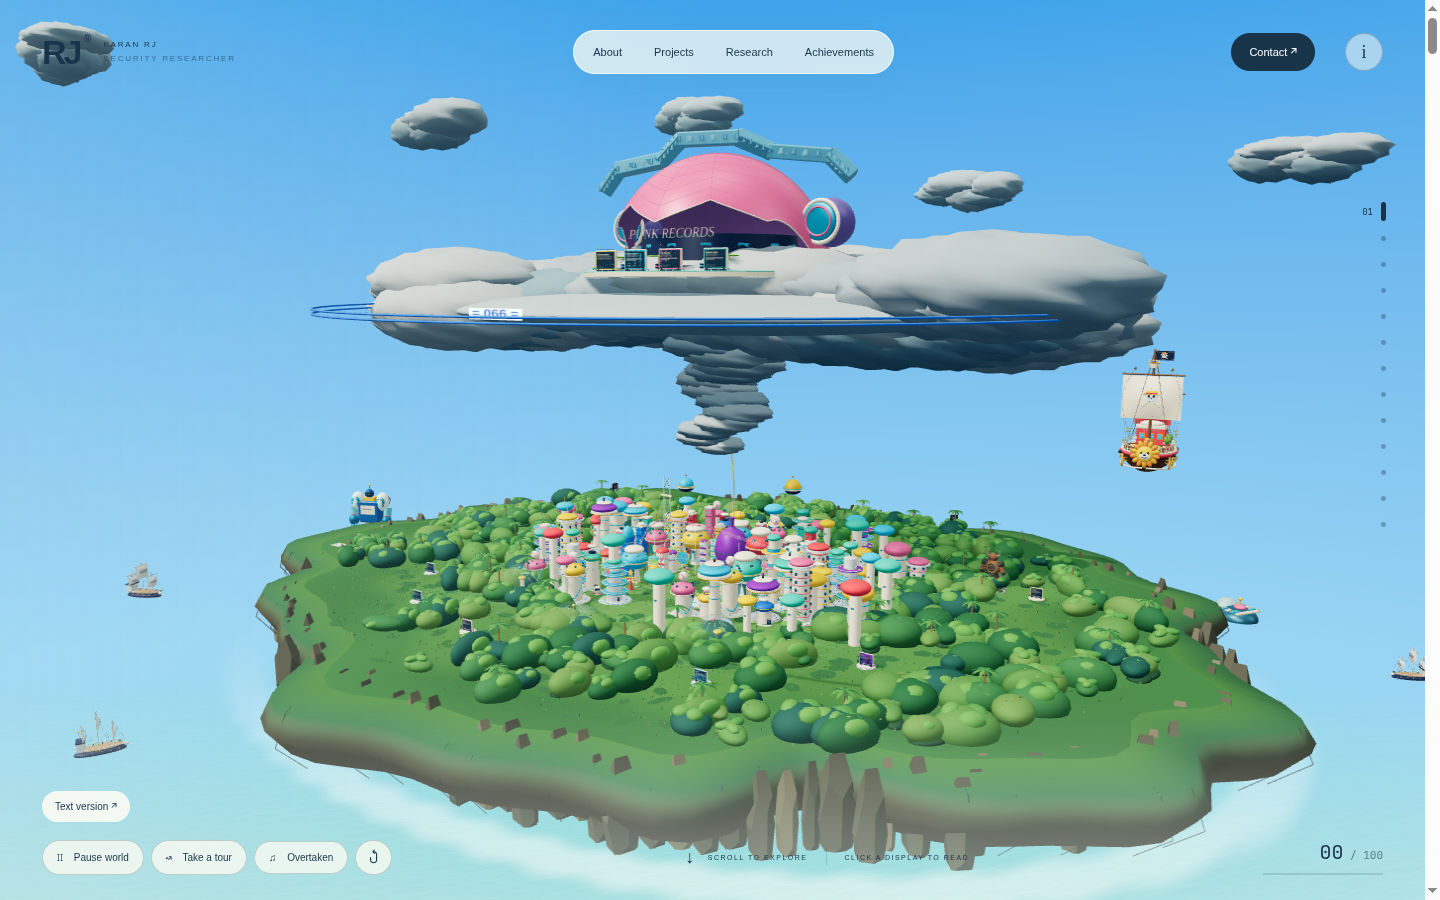
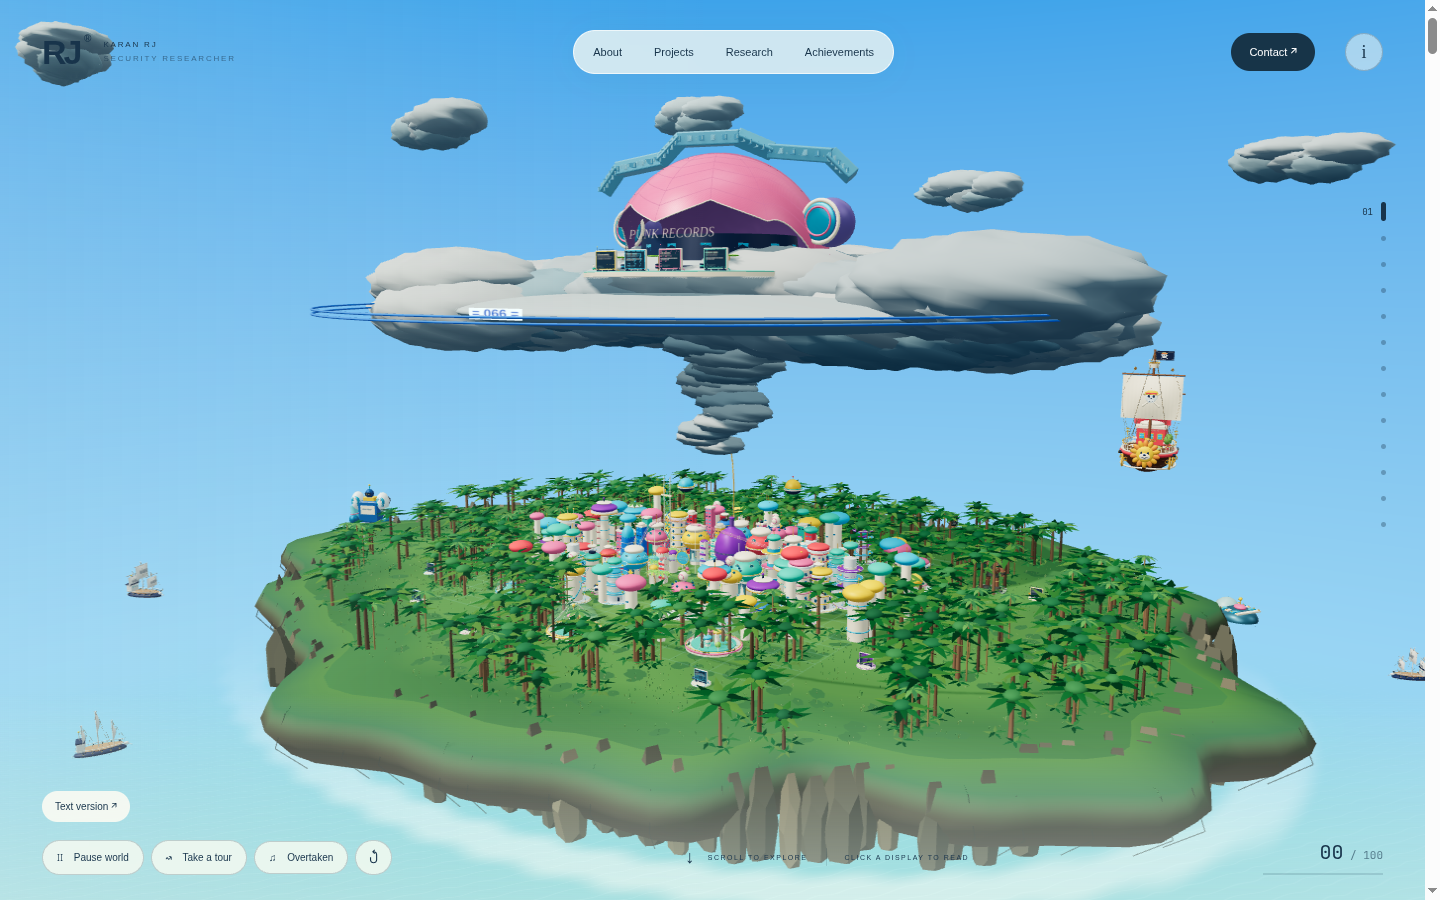
Replace coastal domes with dense Egghead forest

Changed region(s): [[0.1875, 0.4978, 0.875, 0.9644], [0.2812, 0.8711, 0.3438, 0.9022]]

diff --git a/src/megaworld.js b/src/megaworld.js
@@ -15,6 +15,11 @@ function palmLeaf(){
  }
  const g=new T.BufferGeometry();g.setAttribute('position',new T.Float32BufferAttribute(vertices,3));g.setIndex(indices);g.computeVertexNormals();return g;
 }
+function forestLeaf(){
+ const g=new T.BufferGeometry();
+ g.setAttribute('position',new T.Float32BufferAttribute([0,0,0,-.38,.12,.36,0,.22,.58,.38,.12,.36,0,-.17,1],3));
+ g.setIndex([0,1,2,0,2,3,1,4,2,2,4,3]);g.computeVertexNormals();return g;
+}
 function grassClump(){
  const v=[],uv=[],ix=[];
  for(let blade=0;blade<5;blade++){
@@ -37,7 +42,7 @@ function groundPatch(){
 }
 function instances(parent,name,geometry,placements,material=painted){
  const mesh=new T.InstancedMesh(geometry,material,placements.length),dummy=new T.Object3D();mesh.name=name;
- placements.forEach(([x,y,z,sx,sy,sz,color,angle=0],i)=>{dummy.position.set(x,y,z);dummy.rotation.set(0,angle,0);dummy.scale.set(sx,sy,sz);dummy.updateMatrix();mesh.setMatrixAt(i,dummy.matrix);mesh.setColorAt(i,new T.Color(color));});
+ placements.forEach(([x,y,z,sx,sy,sz,color,angle=0],i)=>{dummy.position.set(x,y,z);dummy.rotation.set(...(Array.isArray(angle)?angle:[0,angle,0]));dummy.scale.set(sx,sy,sz);dummy.updateMatrix();mesh.setMatrixAt(i,dummy.matrix);mesh.setColorAt(i,new T.Color(color));});
  mesh.instanceMatrix.needsUpdate=true;mesh.instanceColor.needsUpdate=true;mesh.castShadow=false;mesh.receiveShadow=true;mesh.frustumCulled=false;parent.add(mesh);
  return mesh;
 }
@@ -141,26 +146,36 @@ function bubbleHabitat(parent,x,z,colour,n){
 }
 export function createMegaFabriophase(world,{low=false}={}){
  const district=new T.Group();district.name='FABRIOPHASE_FOREST_AND_CITY';world.add(district);
- const foliage=[],lowerLeaves=[],upperTufts=[],leaflets=[],trunks=[],fronds=[],rocks=[],roofs=[],columns=[],windows=[],antennae=[],grass=[],moss=[];
+ const canopyLeaves=[],canopyCores=[],forestTrunks=[],forestBranches=[],understoryLeaves=[],trunks=[],fronds=[],rocks=[],roofs=[],columns=[],windows=[],antennae=[],grass=[],moss=[];
  let palms=0,pods=0;
- // The dark, irregular vegetation belt frames a smaller city. Leave the port open.
- for(let i=0;i<440;i++){
-  const a=i*2.3999632,r=67+random()*81,x=Math.cos(a)*r,z=Math.sin(a)*r*.802;
+ // Tall trunks, separate leaf fans and a low understory replace the old dome-like canopy.
+ for(let i=0;i<(low?470:660);i++){
+  const a=i*2.3999632,r=64+random()*88,x=Math.cos(a)*r,z=Math.sin(a)*r*.802;
   if(x < -142 && z>10 && z<82||!sightlineClear(x,z))continue;
-  const size=2.8+random()*5.5,depth=3+random()*4;
-  foliage.push([x,2.8+random()*2,z,size,size*.65,depth,[0x2c663c,0x3c7642,0x265c4f,0x568943,0x648d47][i%5],a]);
-  const canopyY=foliage[foliage.length-1][1];
-  for(let leaf=0;leaf<8;leaf++){
-   const theta=random()*Math.PI*2,elevation=.2+random()*1.15;
-   leaflets.push([x+Math.cos(theta)*size*.75*Math.cos(elevation),canopyY+Math.sin(elevation)*size*.64,z+Math.sin(theta)*depth*.75*Math.cos(elevation),.34+random()*.4,.14+random()*.20,.48+random()*.35,[0x1e5735,0x2a7040,0x4e8d49,0x85a653][(i+leaf)%4],theta]);
+  const height=7.5+random()*7.5,width=4.3+random()*3.7,crownY=1.75+height;
+  forestTrunks.push([x,1.75+height*.5,z,.43+random()*.3,height,.43+random()*.3,[0x5d4935,0x71573b,0x846448][i%3],a]);
+  canopyCores.push([x,crownY-.15,z,width*.38,1.2+random()*.6,width*.37,[0x1b5936,0x22683d,0x367841][i%3],a]);
+  for(let f=0;f<12;f++){
+   const angle=f*Math.PI*2/12+random()*.38,tier=f%4===0?-.8:f%3===0?.75:0;
+   const origin=(f%3)*.55,length=width*(.8+random()*.6);
+   canopyLeaves.push([x+Math.sin(angle)*origin,crownY+tier,z+Math.cos(angle)*origin,2.2+random()*1.5,1.1+random()*.35,length,[0x174f32,0x246d3b,0x348044,0x4b9146,0x6da34d][(i+f)%5],[.04+random()*.17,angle,0]]);
   }
-  if(i%3===0)lowerLeaves.push([x+(random()-.5)*3,1.8,z,size*.9,1.5,depth*.8,0x284f38,a]);
-  for(let f=0;f<3;f++){const q=f*Math.PI*2/3+a;
-   upperTufts.push([x+Math.sin(q)*size*.43,4.2+size*.26,z+Math.cos(q)*depth*.38,size*.43,size*.31,depth*.42,f%2?0x4c8e43:0x5d9c49,q]);
+  for(let b=0;b<3;b++){
+   const angle=a+b*Math.PI*2/3,length=2+random()*2.1;
+   forestBranches.push([x+Math.sin(angle)*length*.36,crownY-2.3+b*.45,z+Math.cos(angle)*length*.36,.16,length,.16,0x665039,[Math.PI/2-.45,angle,0]]);
   }
-  if(i%7===0){const h=7+random()*4;palms++;
-   trunks.push([x,2+h/2,z,.25,h,.25,0x94784a,a]);
-   for(let f=0;f<9;f++){const q=f*Math.PI*2/9;fronds.push([x,2+h,z,1,1,1,f%2?0x326e40:0x529043,q]);}
+  const shrubs=2+(i%2);
+  for(let s=0;s<shrubs;s++){
+   const q=a+s*Math.PI*2/shrubs,px=x+Math.sin(q)*(1.8+random()*2),pz=z+Math.cos(q)*(1.8+random()*2);
+   if(!sightlineClear(px,pz))continue;
+   for(let l=0;l<5;l++){
+    const direction=l*Math.PI*2/5+q;
+    understoryLeaves.push([px,2.0+random()*.6,pz,.9+random()*.55,1,2.3+random()*1.0,[0x205b37,0x337846,0x458c4e,0x6a9953][(i+s+l)%4],[.15+random()*.2,direction,0]]);
+   }
+  }
+  if(i%5===0){const h=11+random()*6;palms++;
+   trunks.push([x+2,1.75+h/2,z-1,.22,h,.22,0x94784a,a]);
+   for(let f=0;f<10;f++){const q=f*Math.PI*2/10;fronds.push([x+2,1.75+h,z-1,1.1,1,1.1,f%2?0x326e40:0x529043,q]);}
   }
  }
  for(let i=0;i<(low?2800:5000);i++){
@@ -193,10 +208,12 @@ export function createMegaFabriophase(world,{low=false}={}){
   windows.push([x,2+h*.66,z+w*.57,w*.28,.45,.1,0x267aa0]);
   if(i%3===0)antennae.push([x,2+h+w*.6+1,z,.09,2,.09,C.gold]);
  }
- instances(district,'Coastal_Forest_Canopies',new T.IcosahedronGeometry(1,2),foliage);
- instances(district,'Coastal_Forest_Undergrowth',new T.IcosahedronGeometry(1,1),lowerLeaves);
- instances(district,'Coastal_Forest_Leaf_Tufts',new T.IcosahedronGeometry(1,1),upperTufts);
- instances(district,'Coastal_Forest_Leaf_Detail',new T.TetrahedronGeometry(1,0),leaflets);
+ const leafMaterial=new T.MeshLambertMaterial({color:0xffffff,side:T.DoubleSide});
+ instances(district,'Coastal_Forest_Trunks',new T.CylinderGeometry(.64,1,1,7),forestTrunks);
+ instances(district,'Coastal_Forest_Branches',new T.CylinderGeometry(.55,1,1,5),forestBranches);
+ instances(district,'Coastal_Forest_Canopy_Cores',new T.IcosahedronGeometry(1,1),canopyCores);
+ instances(district,'Coastal_Forest_Leaf_Fans',forestLeaf(),canopyLeaves,leafMaterial).receiveShadow=false;
+ instances(district,'Coastal_Forest_Understory',forestLeaf(),understoryLeaves,leafMaterial).receiveShadow=false;
  instances(district,'Egghead_Living_Grass',grassClump(),grass,new T.MeshStandardMaterial({color:0xffffff,roughness:1,side:T.DoubleSide}));
  instances(district,'Moss_And_Meadow_Patches',groundPatch(),moss,new T.MeshStandardMaterial({color:0xffffff,roughness:1,side:T.DoubleSide}));
  instances(district,'Weathered_Cliff_Faces',new T.DodecahedronGeometry(1,0),rocks);
@@ -227,5 +244,5 @@ export function createMegaFabriophase(world,{low=false}={}){
  for(const [x,z,c] of [[-46,49,C.cyan],[39,54,C.pink],[-3,68,C.yellow]]){
   if(exhibitClearance(x,z,12)&&sightlineClear(x,z)){bubbleHabitat(district,x,z,c,habitats);habitats++;}
  }
- return {radiusX:ISLAND_RADII.x,radiusZ:ISLAND_RADII.z,areaScale:(ISLAND_RADII.x*ISLAND_RADII.z)/(66*53),pods,palms,coastalCanopies:foliage.length,leafDetails:leaflets.length,grassClumps:grass.length,mossPatches:moss.length,cliffRocks:rocks.length,detailedBuildings,habitats};
+ return {radiusX:ISLAND_RADII.x,radiusZ:ISLAND_RADII.z,areaScale:(ISLAND_RADII.x*ISLAND_RADII.z)/(66*53),pods,palms,coastalCanopies:canopyCores.length,leafDetails:canopyLeaves.length,forestTrunks:forestTrunks.length,understoryLeaves:understoryLeaves.length,grassClumps:grass.length,mossPatches:moss.length,cliffRocks:rocks.length,detailedBuildings,habitats};
 }

diff --git a/index.html b/index.html
@@ -39,6 +39,6 @@
   <div class="world-link" id="world-link" role="status" aria-live="polite"></div>
   <dialog id="about"><button id="close-about" aria-label="Close about">×</button><p class="eyebrow">RJ / WORLD 001</p><h2>A world worth<br>getting lost in.</h2><p>Your portfolio lives inside the island. Visit the introduction dock, six project terminals, the achievement observatory, research laboratory, advisory vault, writing archive and communications station.</p><p>Scroll to travel. Click the buttons on the physical displays. Drag the open scene to look around. Use the numbered route to jump between exhibits. A text version is available for keyboard and screen-reader access.</p><small>Unofficial ONE PIECE fan-art study. Independently authored 3D interpretation; not an official or exhaustive replica.</small></dialog>
   <dialog id="soundtrack" aria-labelledby="soundtrack-title"><button class="close-dialog" id="close-soundtrack" aria-label="Close soundtrack and stop playback">×</button><p class="eyebrow">THE SOUND OF ADVENTURE</p><h2 id="soundtrack-title">Overtaken.</h2><p>From the ONE PIECE original soundtrack.<br>Kōhei Tanaka · Shirō Hamaguchi</p><div id="music-player"></div><p class="music-note">Press play in Spotify. Full playback depends on your Spotify account and region.</p><a href="https://open.spotify.com/track/5Gt3KAUrjFBjVNgMngjCXZ" target="_blank" rel="noopener noreferrer">Open in Spotify ↗</a></dialog>
-  <script type="module" src="src/main.js?v=14"></script>
+  <script type="module" src="src/main.js?v=15"></script>
 </body>
 </html>

diff --git a/src/main.js b/src/main.js
@@ -2,7 +2,7 @@ import './music.js?v=5';
 import {createPortfolioWorld} from './portfolio.js?v=13';
 import * as T from '../assets/vendor/three.module.min.js';
 import {RoomEnvironment} from '../assets/vendor/environments/RoomEnvironment.js';
-import {createEgghead,createOcean} from './world.js?v=14';
+import {createEgghead,createOcean} from './world.js?v=15';
 import {destinations,chapterIndex,TOUR_SECONDS,updateCamera,advanceJourney,cameraPose} from './journey.js?v=14';
 
 const canvas=document.querySelector('#world'),loading=document.querySelector('#loading-copy'),enter=document.querySelector('#explore'),reduced=matchMedia('(prefers-reduced-motion: reduce)'),query=new URLSearchParams(location.search);

diff --git a/src/world.js b/src/world.js
@@ -3,7 +3,7 @@ import {mergeGeometries} from '../assets/vendor/utils/BufferGeometryUtils.js';
 import {C,materials,paint,add,sphere,cylinder,ring,rod,tube,roundedBox,label,batchWorld} from './geometry.js?v=4';
 import {createZoro} from './zoro.js?v=5';
 import {createAdventure} from './adventure.js?v=14';
-import {createMegaFabriophase,ISLAND_RADII} from './megaworld.js?v=14';
+import {createMegaFabriophase,ISLAND_RADII} from './megaworld.js?v=15';
 import {createSeaFleet} from './fleet.js?v=13';
 import {createEggheadMachines} from './creatures.js?v=14';
 

diff --git a/README.md b/README.md
@@ -1,6 +1,6 @@
 # Karan RJ — Egghead portfolio
 
-An unofficial, independently authored One Piece Egghead world. The island has 172 × 138 unit radii, with a wider grassland and a wooded, rocky coast around the futuristic city. Its saucer towers, ring laboratories, transparent habitats, transit tubes and palms sit beneath the cloud platform carrying Punk Records. Marine warships, pirate vessels and animated mechanical sea beasts circle the coast; small service robots patrol the city and Vega Force 1 moves through the shallows. Scroll with the Sunny as it circles the island, fires its Coup de Burst, lands at the harbour, then continues through Fabriophase, Zoro's promenade, Emet and Punk Records. Twelve physical displays sit at those locations. Click a display to read it; scroll or press Escape to return to the world.
+An unofficial, independently authored One Piece Egghead world. The island has 172 × 138 unit radii, with a wider grassland and a dense coastal forest of tall trunks, layered leaf crowns, palms and understory plants around the futuristic city. Its saucer towers, ring laboratories, transparent habitats and transit tubes sit beneath the cloud platform carrying Punk Records. Marine warships, pirate vessels and animated mechanical sea beasts circle the coast; small service robots patrol the city and Vega Force 1 moves through the shallows. Scroll with the Sunny as it circles the island, fires its Coup de Burst, lands at the harbour, then continues through Fabriophase, Zoro's promenade, Emet and Punk Records. Twelve physical displays sit at those locations. Click a display to read it; scroll or press Escape to return to the world.
 
 The setting is a stylized fan-art interpretation, not an exact reconstruction of every character and object in the arc. The current characters are Zoro in his Egghead clothing, S-Hawk, Emet and a small Luffy on the Sunny. The scene uses authored geometry, local Three.js and credited wood textures. There are no AI-generated image assets, photographic sky or scanned broadleaf trees in the running scene.
 
@@ -26,7 +26,7 @@ Open http://localhost:8090/. No installation or build step is required. The publ
 
 `src/world.js` and `src/megaworld.js` build the 172 × 138 unit island, layered grass, rocky forested shoreline, compact city, palms, transit, cloud platform and cracked Punk Records dome. `sunny.js`, `fleet.js`, `creatures.js`, `zoro.js`, `encounters.js` and `adventure.js` contain the ships, sea beasts, robots, character geometry and animation. `exhibit-route.js` records the content locations. `portfolio.js` creates physical terminals with safe URL handling, text pagination and raycast interactions. `journey.js` defines the world-first camera route; `main.js` handles lighting, motion and reading focus.
 
-See `ASSET-SOURCES.md` for source credits. Current previews: [island overview](docs/egghead-overview.png), [fleet](docs/egghead-fleet.png) and [Sunny harbour landing](docs/egghead-harbor.png). The `research/` images are study references, not runtime textures. Historical screenshots and measurements are retained in `docs/`; the current route captures are under `docs/screenshots/current/`.
+See `ASSET-SOURCES.md` for source credits. Current previews: [island overview](docs/egghead-overview.png), [coastal forest](docs/egghead-forest.png), [fleet](docs/egghead-fleet.png) and [Sunny harbour landing](docs/egghead-harbor.png). The `research/` images are study references, not runtime textures. Historical screenshots and measurements are retained in `docs/`; the current route captures are under `docs/screenshots/current/`.
 
 ## Verification
 

diff --git a/ASSET-SOURCES.md b/ASSET-SOURCES.md
@@ -4,7 +4,7 @@ The current world uses local Three.js 0.180.0 (MIT; `assets/vendor/three-LICENSE
 
 The previous Island Tree 01 GLBs, packed tree Blender source and photographic sky JPEG are retained locally as unused historical assets. They are no longer loaded and are excluded from this publication. All mentions of them in the historical notes below refer to the earlier revision.
 
-The current island has radii of 172 × 138 world units. Human and Sunny geometry retain their authored scale. `src/megaworld.js` makes the grass clumps, irregular ground patches, forest, tropical palms, four architectural families, bubble habitats and city grid. `src/world.js` makes the layered cliffs, cloud shapes, Punk Records, transit and sea. `src/fleet.js` adds independently authored Marine and pirate ships. `src/creatures.js` adds animated original interpretations of Egghead's mechanical sea beast weapons, service robots and Vega Force 1. These are original 3D fan-art meshes modeled from the submitted visual references and official episode descriptions; the reference screenshots are not bundled as runtime images. Twelve physical exhibits retain separate project, achievement, report, CVE, writing and contact locations. This remains an independently authored interpretation, not official production geometry or a frame-perfect reconstruction.
+The current island has radii of 172 × 138 world units. Human and Sunny geometry retain their authored scale. `src/megaworld.js` makes the grass clumps, irregular ground patches, tall forest trunks, individual broadleaf crowns, low understory, tropical palms, four architectural families, bubble habitats and city grid. The old dome-shaped forest canopy is no longer used. `src/world.js` makes the layered cliffs, cloud shapes, Punk Records, transit and sea. `src/fleet.js` adds independently authored Marine and pirate ships. `src/creatures.js` adds animated original interpretations of Egghead's mechanical sea beast weapons, service robots and Vega Force 1. These are original 3D fan-art meshes modeled from the submitted visual references and official episode descriptions; the reference screenshots are not bundled as runtime images. Twelve physical exhibits retain separate project, achievement, report, CVE, writing and contact locations. This remains an independently authored interpretation, not official production geometry or a frame-perfect reconstruction.
 
 Reference sources consulted for the visual study:
 - https://one-piece.com/story/egghead/index.html (official story and island context)
